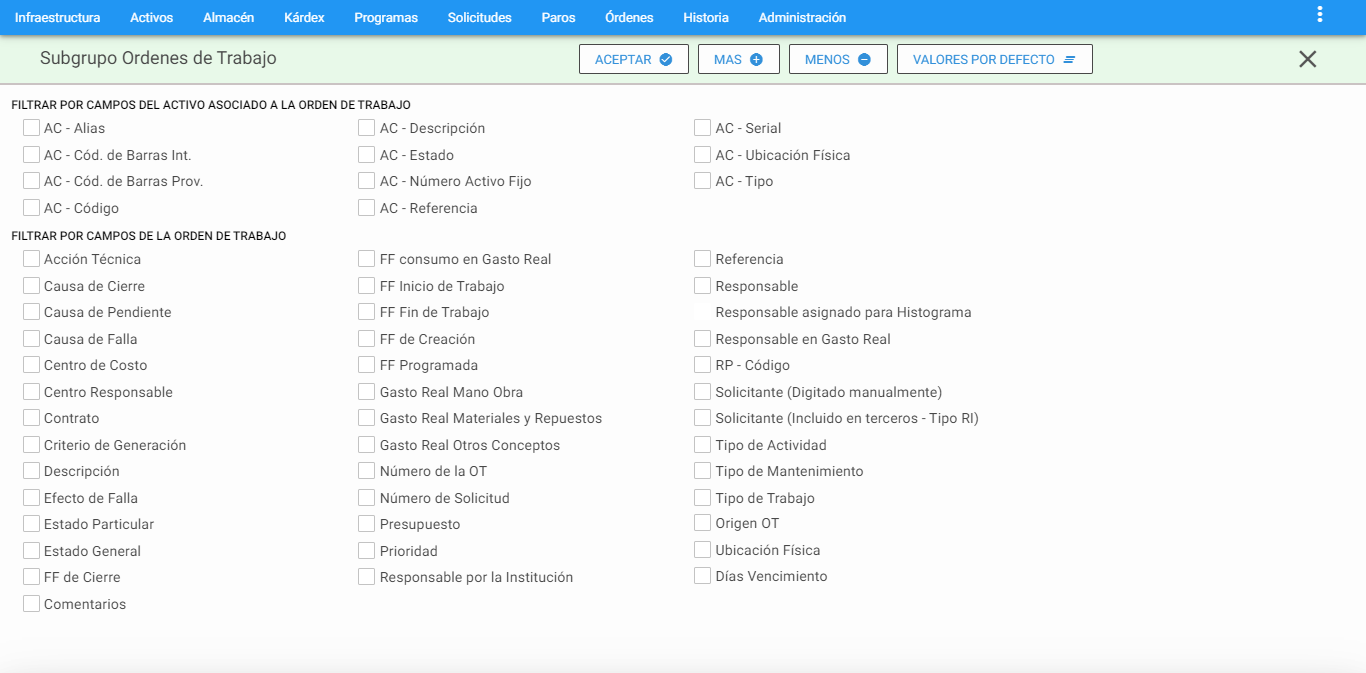
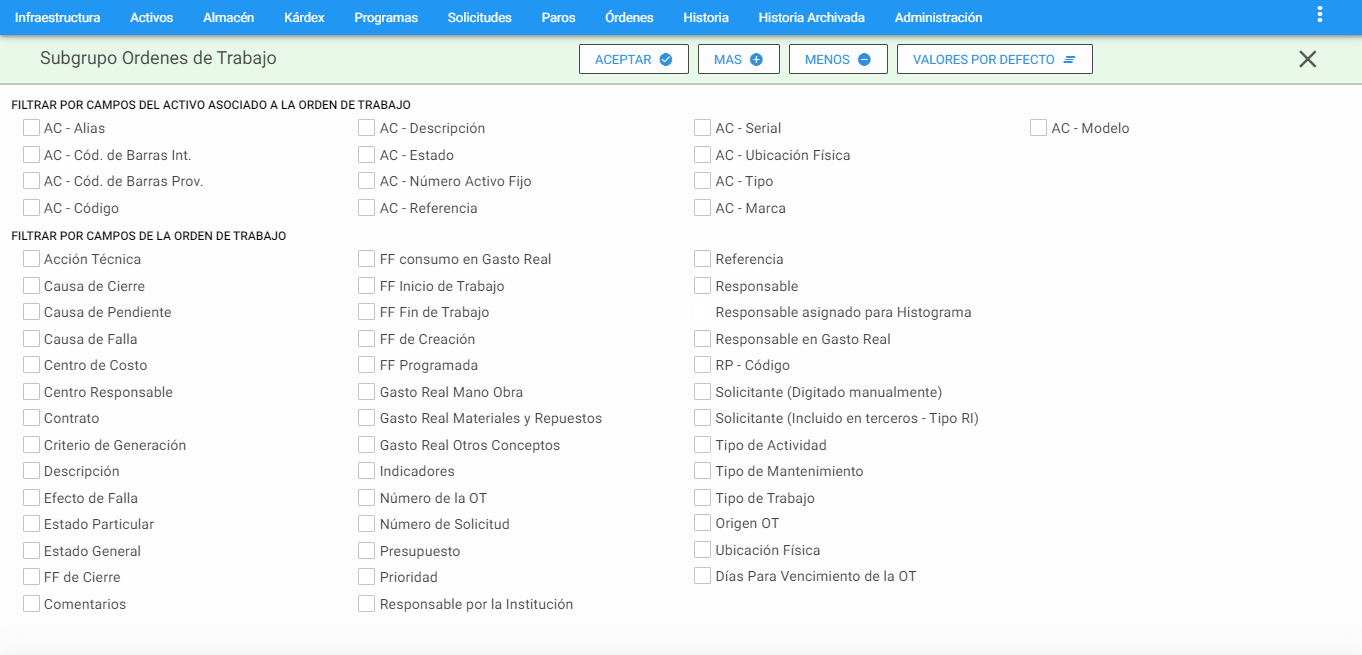
actualización OT

diff --git a/_docs/09_04_main_window.md b/_docs/09_04_main_window.md
@@ -115,6 +115,10 @@ Para las Órdenes de Trabajo Manuales, esta  opción se establece en el momento 
 
 Cuando una Órden de Trabajo Manual exige control presupuestal y el presupuesto no ha sido aprobado, no es posible registrar ni modificar el Gasto Real en ella.
 
+**Acciones técnicas:** Esta opción habilita una tabla de Acciones Técnicas en una nueva pestaña de la OT. Esta tabla está ligada a la Infraestructura, creada con su mismo nombre, que contiene un listado de Acciones Técnicas frecuentes definidas por el área de Mantenimiento. Se pretende describir, breve pero concretamente, la actividad general realizada en una OT representada como un **check list.** (En la sección vistas parciales/Acciones Técnicas se explica mas el detalle).
+
+**Estado del Activo:** Es posible que los usuarios solicitantes o la misma área de mantenimiento pueda definir por medio de este switche si el Activo se le entregó limpio al departamento de mantenimiento. 
+
 **Comentarios:** Esta opción se usa para ingresar los nuevos comentarios referentes a toda la ejecución de la OT. Al dar clic al botón <a class="btn gray">Agregar Comentario</a> aparecerá el comentario ingresado al lado derecho en una ventana tipo chat bloqueada; además de la fecha, hora y el usuario logueado que realizó el comentario.
 
 Este espacio de comentarios sirve para dos efectos:
@@ -134,11 +138,14 @@ Es posible saber cuáles OT son de tipo Metrología, Preventiva/Programada, Corr
 El significado de los colores es el siguiente:
 
 * **Naranja:** Órden que tiene asociado archivos de imágenes, videos y/o documentos en la pestaña Multimedia.
+* **Blanco:** Indica que la OT retroalimentada a través de AMovil contiene la firma de Recibido por parte del usuario solicitante.
 * **Azul:** Órden con servicio evaluado.
-* **Amarillo:** Órden de TM Metrología.
+* **Mostaza:** Órden de TM Metrología.
 * **Verde:** Órden de TM Preventivo o Programada.
 * **Rojo:** Órden de TM Correctivo.
 * **Azul Oscuro:** OT en estado Cerrada Parcial.
+* **Fucsia:** Indica que son OT que utilizan la interfase para hacer pedidos de materiales/repuestos al almacén del ERP. 
+* **Amarillo:** Son OT que han sido creadas por medio de un API. 
 
 ## Subgrupos
 
@@ -183,6 +190,11 @@ Los campos de datos que constituyen criterio de selección, se agrupan en dos bl
 
 **AC-Tipo:** Selecciona las OT asociados a los Activos que se encuentran asociados al tipo ingresado por el usuario.
 
+**AC - Marca:** Selecciona el conjunto de OT que se asocian a la marca del Activo ingresado en el campo. Este campo acepta comodines (%).
+
+**AC - Modelo:** Filtra el conjunto de OT que se asocian al modelo del Activo ingresado en el campo. Este campo acepta comodines (%).
+
+
 **2. FILTRAR POR CAMPOS DE LA ORDEN DE TRABAJO**
 
 **Acción Técnica:** Filtra las OT a las cuales se le definió la Acción Técnica seleccionada en esta opción. Existen dos formas de definir la Acción Técnica de la OT. La primera es seleccionando una de la lista desplegable. La segunda, es dando clic al icono de candado <span class="mdi mdi-lock"></span> el cual se desactiva <span class="mdi mdi-lock-open-outline"></span> y permite digitar segmentos del nombre de la Acción Técnica usando comodines (%) que filtran la OT cuya Acción Técnica tenga parte del nombre igual.
@@ -226,21 +238,21 @@ Los campos de datos que constituyen criterio de selección, se agrupan en dos bl
 
 **Estado General:** Permite seleccionar las OT de acuerdo a un Estado general: Abierta, Cancelada y Cerrada.
 
-**Fecha de Cierre:** Este criterio filtra las Órdenes de Trabajo por un rango de la Fecha de Cierre de Trabajos. Aparecen dos campos: Desde y Hasta. En cada uno de ellos se digita una fecha. De no digitar el campo **“Desde”**, se buscan las Órdenes de Trabajo cuya fecha de cierre esté en el lapso anterior a la fecha digitada en **“Hasta”**. De no digitar el campo **“Hasta”**, se buscan los registros cuya fecha de cierre esté en un lapso posterior a la digitada en **“Desde”**.
+**FF de Cierre:** Este criterio filtra las Órdenes de Trabajo por un rango de la Fecha de Cierre de Trabajos. Aparecen dos campos: Desde y Hasta. En cada uno de ellos se digita una fecha. De no digitar el campo **“Desde”**, se buscan las Órdenes de Trabajo cuya fecha de cierre esté en el lapso anterior a la fecha digitada en **“Hasta”**. De no digitar el campo **“Hasta”**, se buscan los registros cuya fecha de cierre esté en un lapso posterior a la digitada en **“Desde”**.
 
 **Comentarios:** Filtra los registros que contengan una parte del comentario registrado en este campo.
 
-**Fecha de consumo Mano de Obra:** Filtra las Órdenes de Trabajo por  un rango de la Fecha de consumo de mano de obra en el Gasto Real de la **OT**. Aparecen dos campos: Desde y Hasta. En cada uno de ellos se digita una fecha. De no digitar el campo **“Desde”**, se buscan los registros cuya fecha de consumo de mano de obra esté en el lapso anterior a la fecha digitada en **“Hasta”**. Al no digitar el campo **“Hasta”**, se buscan las ots cuya fecha de consumo de mano de obra esté en un lapso posterior a la digitada en **“Desde”**.
+**FF de consumo Mano de Obra:** Filtra las Órdenes de Trabajo por  un rango de la Fecha de consumo de mano de obra en el Gasto Real de la **OT**. Aparecen dos campos: Desde y Hasta. En cada uno de ellos se digita una fecha. De no digitar el campo **“Desde”**, se buscan los registros cuya fecha de consumo de mano de obra esté en el lapso anterior a la fecha digitada en **“Hasta”**. Al no digitar el campo **“Hasta”**, se buscan las ots cuya fecha de consumo de mano de obra esté en un lapso posterior a la digitada en **“Desde”**.
 
-**Fecha de consumo en Gasto Real:** Este criterio filtra las Órdenes de Trabajo por  un rango de la Fecha de consumo de Gasto Real. Aparecen dos campos: Desde y Hasta. En cada uno de ellos se digita una fecha. De no digitar el campo **“Desde”**, se buscan los registros cuya fecha de consumo de Gasto Real esté en el lapso anterior a la fecha digitada en **“Hasta”**. Al no digitar el campo **“Hasta”**, se buscan las OT cuya fecha de consumo de mano de obra esté en un lapso posterior a la digitada en **“Desde”**.
+**FF de consumo en Gasto Real:** Este criterio filtra las Órdenes de Trabajo por  un rango de la Fecha de consumo de Gasto Real. Aparecen dos campos: Desde y Hasta. En cada uno de ellos se digita una fecha. De no digitar el campo **“Desde”**, se buscan los registros cuya fecha de consumo de Gasto Real esté en el lapso anterior a la fecha digitada en **“Hasta”**. Al no digitar el campo **“Hasta”**, se buscan las OT cuya fecha de consumo de mano de obra esté en un lapso posterior a la digitada en **“Desde”**.
 
-**Fecha de Inicio de Trabajos:** Este criterio filtra las Órdenes de Trabajo por un rango de la Fecha de Inicio de Trabajos.  Aparecen dos campos: Desde y Hasta. En cada uno de ellos se digita una fecha. De no digitar el campo **“Desde”**, se buscan los registros cuya fecha de Inicio de trabajos esté en el lapso anterior a la fecha digitada en **“Hasta”**. De no digitar el campo **“Hasta”**, se buscan las OT cuya fecha de fin de trabajos esté en un lapso posterior a la digitada en **“Desde”**.
+**FF de Inicio de Trabajos:** Este criterio filtra las Órdenes de Trabajo por un rango de la Fecha de Inicio de Trabajos.  Aparecen dos campos: Desde y Hasta. En cada uno de ellos se digita una fecha. De no digitar el campo **“Desde”**, se buscan los registros cuya fecha de Inicio de trabajos esté en el lapso anterior a la fecha digitada en **“Hasta”**. De no digitar el campo **“Hasta”**, se buscan las OT cuya fecha de fin de trabajos esté en un lapso posterior a la digitada en **“Desde”**.
 
-**Fecha de Fin de Trabajos:** Este criterio filtra las Órdenes de Trabajo por un rango de la Fecha de Fin de Trabajos. Aparecen dos campos: Desde y Hasta. En cada uno de ellos se digita una fecha. De no digitar el campo **“Desde”**, se buscan los registros cuya fecha de fin de trabajos esté en el lapso anterior a la fecha digitada en **“Hasta”**. De no digitar el campo **“Hasta”**, se buscan las OT cuya fecha de fin de trabajos esté en un lapso posterior a la digitada en **“Desde”**.
+**FF de Fin de Trabajos:** Este criterio filtra las Órdenes de Trabajo por un rango de la Fecha de Fin de Trabajos. Aparecen dos campos: Desde y Hasta. En cada uno de ellos se digita una fecha. De no digitar el campo **“Desde”**, se buscan los registros cuya fecha de fin de trabajos esté en el lapso anterior a la fecha digitada en **“Hasta”**. De no digitar el campo **“Hasta”**, se buscan las OT cuya fecha de fin de trabajos esté en un lapso posterior a la digitada en **“Desde”**.
 
-**Fecha de Creación:** Permite filtrar las Órdenes de Trabajo cuya fecha de Creación se encuentren incluidas en el rango especificado en este campo. Aparecen dos campos: Desde y Hasta. En cada uno de ellos se digita una fecha. De no digitar el campo **“Desde”**, se buscan los registros cuya fecha de creación esté en el lapso anterior a la fecha digitada en **“Hasta”**. De no digitar el campo **“Hasta”**, se buscan las OT cuya fecha de fin de trabajos esté en un lapso posterior a la digitada en **“Desde”**.
+**FF de Creación:** Permite filtrar las Órdenes de Trabajo cuya fecha de Creación se encuentren incluidas en el rango especificado en este campo. Aparecen dos campos: Desde y Hasta. En cada uno de ellos se digita una fecha. De no digitar el campo **“Desde”**, se buscan los registros cuya fecha de creación esté en el lapso anterior a la fecha digitada en **“Hasta”**. De no digitar el campo **“Hasta”**, se buscan las OT cuya fecha de fin de trabajos esté en un lapso posterior a la digitada en **“Desde”**.
 
-**Fecha Programada:** Este criterio filtra  las Órdenes de Trabajo por un rango de la Fecha Programada. Aparecen dos campos: Desde y Hasta. En cada uno de ellos se digita una fecha. De no digitar el campo **“Desde”**, se buscan los registros cuya fecha programada esté en el lapso anterior a la fecha digitada en  **“Hasta”**. De no digitar el campo **“Hasta”**, se buscan las OT cuya fecha programada esté en un lapso posterior a la digitada en **“Desde”**.
+**FF Programada:** Este criterio filtra  las Órdenes de Trabajo por un rango de la Fecha Programada. Aparecen dos campos: Desde y Hasta. En cada uno de ellos se digita una fecha. De no digitar el campo **“Desde”**, se buscan los registros cuya fecha programada esté en el lapso anterior a la fecha digitada en  **“Hasta”**. De no digitar el campo **“Hasta”**, se buscan las OT cuya fecha programada esté en un lapso posterior a la digitada en **“Desde”**.
 
 **Gasto Real Mano de Obra:** Esta opción habilita una lista desplegable donde se escoge el criterio deseado, junto con un campo donde se digita el valor de comparación. Los criterios son:
 
@@ -268,7 +280,9 @@ Los criterios son:
 - **Mayor (>)**  
 - **Menor (<)**.
 
- Estos criterios actúan en comparación con el valor digitado en la casilla que se activa al lado del operador aritmético.
+Estos criterios actúan en comparación con el valor digitado en la casilla que se activa al lado del operador aritmético.
+
+**Indicadores:** Este es un campo desplegable que filtra las OT que tenga el indicador por color definido, las opciones son: Ninguno, Multimedia, Firma Recibido, Servicio Evaluado y Creadas desde APi. 
 
 **Número de la OT**: Filtra los registros con base en su número consecutivo. Para ello se define en el criterio un rango. Aparecen cuatro campos, para ubicar el comienzo del rango **“Desde”** (Año-Consecutivo) y el fin del rango **“Hasta”** (Año-Consecutivo). De no digitar los campos **“Desde”**, se buscan las OT cuyo número es inferior al digitado en **“Hasta”**. De no digitar los campos **“Hasta”**, se buscan las OT cuyo número es  posterior al digitado en **“Desde”**.
 
@@ -284,7 +298,8 @@ Los criterios son:
 
 **Responsable:** Filtra las Órdenes de Trabajo de acuerdo al Responsable asignado.Existen dos formas de buscar el Responsable. La primera es seleccionándolo de la lista desplegable. La segunda es dando clic al icono de candado <span class="mdi mdi-lock"></span> el cual se desactiva <span class="mdi mdi-lock-open-outline"></span> permitiendo digitar segmentos del nombre del Responsable, en el cual también es posible usar comodines (%). Cuando se usan comodines, es posible seleccionar las OT cuyo Responsable tenga una parte del nombre igual. 
 
-**Responsable Asignado para Histograma:** Permite buscar las OT cuyo Responsable está asignado para el histograma. Existen dos formas de definir el Responsable asignado para histograma de la OT. La primera es seleccionándolo de la lista desplegable. La segunda es dando clic al icono de candado <span class="mdi mdi-lock"></span> el cual se desactiva <span class="mdi mdi-lock-open-outline"></span> permitiendo digitar segmentos del nombre del Responsable, en el cual también es posible usar comodines (%). Cuando se utilizan comodines, es posible seleccionar las OT cuyo Responsable tenga una parte del nombre igual.
+* **Responsable Asignado para Histograma:** Permite seleccionar las OT cuyo Responsable está asignado para el histograma. Este campo depende de la elección que se definia en el criterio **Responsable**.
+
 
 **Responsable en Gasto Real:** Permite filtrar de las OT cuyo Responsable en Gasto Real está definido en la mano de obra del Gasto Real.
 
